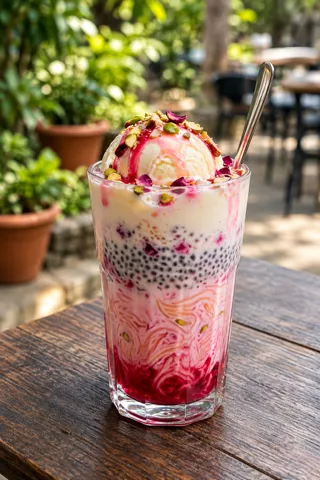
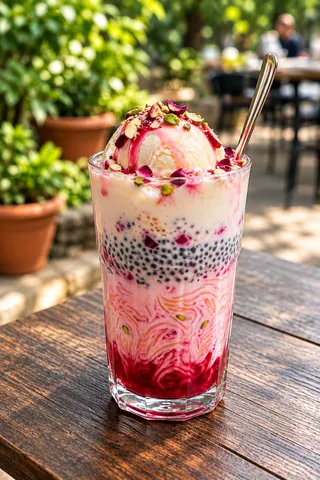
Refresh the seven hero food photos and remove the strip's pause button
New daylight photographs for Tea, Coffee, Snacks, Sweets, Milkshakes,
Ice Cream and Falooda (320/640 WebP copies from the new masters). The
moving strip no longer has a pause button; hover and keyboard focus
still hold it still.

diff --git a/src/components/HeroFoodMoment/HeroFoodMoment.jsx b/src/components/HeroFoodMoment/HeroFoodMoment.jsx
@@ -1,6 +1,4 @@
 import { m, useReducedMotion } from 'framer-motion'
-import { Pause, Play } from 'lucide-react'
-import { useState } from 'react'
 import { Link } from 'react-router-dom'
 import ImagePlaceholder from '../ImagePlaceholder/ImagePlaceholder'
 import { menuCategories } from '../../data/menuCategories'
@@ -15,8 +13,8 @@ import './HeroFoodMoment.css'
  * the collection as a quiet signature; the seven framed photographs hang
  * beneath it at slightly different heights and tilts, like prints pinned up
  * by hand. At every size they form one horizontal strip that drifts slowly
- * left to right, without end (see COPIES below); a small button beneath it
- * pauses and resumes it. Desktop shows all seven at once, phones two and a
+ * left to right, without end (see COPIES below); pointing at it or tabbing
+ * into it holds it still. Desktop shows all seven at once, phones two and a
  * part of the next.
  *
  * The signature signs itself, on a loop: the pen draws the G in one
@@ -202,15 +200,14 @@ export default function HeroFoodMoment() {
   const prefersReducedMotion = useReducedMotion()
   // Reduced motion: render every layer in its final state.
   const from = (state) => (prefersReducedMotion ? false : state)
-  // The visitor's own pause; hover and keyboard focus also hold the strip
-  // (CSS), so a moving photograph is never a moving target.
-  const [paused, setPaused] = useState(false)
 
   return (
     <div className="garland-set">
       <Signature from={from} />
 
-      <div className={`garland-strip${paused ? ' is-paused' : ''}`}>
+      {/* Hover and keyboard focus hold the strip still (CSS), so a moving
+          photograph is never a moving target. */}
+      <div className="garland-strip">
         <div className="garland-strip__window">
           <div className="garland-track" style={{ '--copies': COPIES }}>
             {Array.from({ length: COPIES }, (_, copy) => (
@@ -218,15 +215,6 @@ export default function HeroFoodMoment() {
             ))}
           </div>
         </div>
-
-        <button
-          type="button"
-          className="garland-strip__toggle"
-          onClick={() => setPaused((value) => !value)}
-          aria-label={paused ? 'Play the moving photographs' : 'Pause the moving photographs'}
-        >
-          {paused ? <Play aria-hidden="true" /> : <Pause aria-hidden="true" />}
-        </button>
       </div>
     </div>
   )

diff --git a/src/components/HeroFoodMoment/HeroFoodMoment.css b/src/components/HeroFoodMoment/HeroFoodMoment.css
@@ -113,8 +113,7 @@
   }
 }
 
-/* Held still while the visitor pauses it, points at it or tabs into it. */
-.garland-strip.is-paused .garland-track,
+/* Held still while the visitor points at it or tabs into it. */
 .garland-strip__window:focus-within .garland-track {
   animation-play-state: paused;
 }
@@ -144,51 +143,6 @@
   padding-block-start: calc(var(--hang-slot) + var(--drop));
 }
 
-/* Pause / play — a small ivory ring beneath the strip, clear of the frames
-   and the WhatsApp button. 32px drawn, a full 44px to tap. */
-.garland-strip__toggle {
-  position: relative;
-  display: grid;
-  place-items: center;
-  width: 2rem;
-  height: 2rem;
-  margin-block-start: var(--space-3);
-  padding: 0;
-  color: var(--hero-text);
-  background: rgb(20 20 18 / 0.3);
-  border: var(--border-width) solid rgb(241 235 221 / 0.6);
-  border-radius: 50%;
-  cursor: pointer;
-  -webkit-backdrop-filter: blur(6px);
-  backdrop-filter: blur(6px);
-  transition:
-    background-color var(--duration-fast) var(--ease-standard),
-    color var(--duration-fast) var(--ease-standard);
-}
-
-.garland-strip__toggle::before {
-  content: '';
-  position: absolute;
-  inset: -0.375rem;
-}
-
-.garland-strip__toggle svg {
-  width: 0.875rem;
-  height: 0.875rem;
-}
-
-.garland-strip__toggle:focus-visible {
-  outline: 2px solid var(--hero-text);
-  outline-offset: 3px;
-}
-
-@media (hover: hover) {
-  .garland-strip__toggle:hover {
-    color: var(--color-ink);
-    background: var(--hero-text);
-  }
-}
-
 /* Reduced motion: no travel. One copy of the seven, still — centred where
    it fits, and on narrower screens a row the visitor can swipe through. */
 @media (prefers-reduced-motion: reduce) {
@@ -209,8 +163,7 @@
     margin-inline: auto;
   }
 
-  .garland[aria-hidden='true'],
-  .garland-strip__toggle {
+  .garland[aria-hidden='true'] {
     display: none;
   }
 

diff --git a/src/sections/Hero/Hero.css b/src/sections/Hero/Hero.css
@@ -310,10 +310,9 @@
 }
 
 /* Invisible glass behind the moving photographs and their marks — only
-   that area (layer defined with the headline's, above). The strip already
-   holds the pause button, so the glass reaches a little less below it. */
+   that area (layer defined with the headline's, above). */
 .hero .garland-strip::before {
-  inset: -2.5rem -1.5rem -0.5rem;
+  inset: -2.5rem -1.5rem -2.75rem;
 }
 
 /* Short laptop screens (under 640px tall — e.g. 1366 × 768 at 125% zoom):
